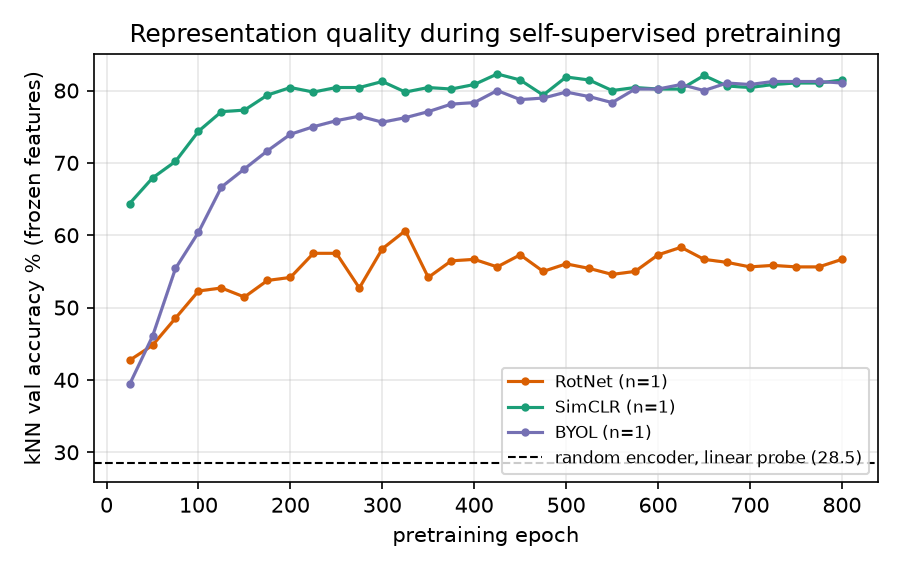
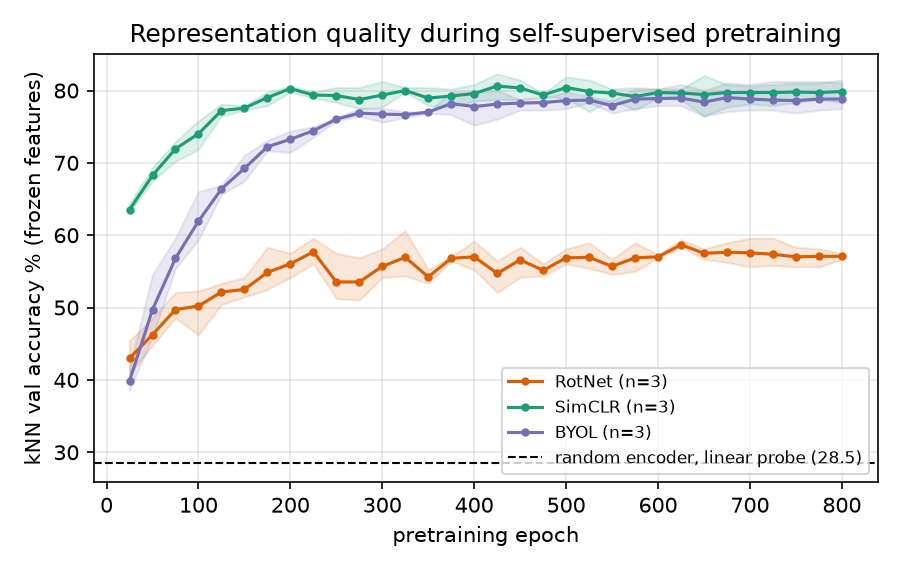
Results: 3-seed required table (baselines, RotNet/SimCLR/BYOL probe + fine-tune, joint), figures

diff --git a/docs/results.md b/docs/results.md
@@ -8,17 +8,19 @@ Validation set: 480 images (30/class) held out of the 2,400 training images; one
 |---|---|---|---|---|---|---|---|---|---|---|---|---|---|---|---|---|---|---|
 | sup_baseline | 3 | 80.42 ± 0.91 | 79.8–81.5 | 98.4 / 78.7 | resnet18 | random | supervised | - | 120 | light | 160 | 100 | 0.001 | 0 | 0.05 | - | 11.18 | 1.0 |
 | probe_random | 1 | 28.54 |  | 25.0 / 28.3 | resnet18 | random | supervised | y | 120 | light | 160 | 60 | 0.003 | 0 | 0 | - | 11.18 | 0.4 |
-| probe_byol | 1 | 84.17 |  | 89.9 / 82.9 | resnet18 | byol (ssl_byol) | supervised | y | 120 | light | 160 | 60 | 0.003 | 0 | 0 | - | 11.18 | 0.4 |
-| ft_byol | 1 | 85.21 |  | 99.7 / 84.4 | resnet18 | byol (ssl_byol) | supervised | - | 120 | light | 160 | 100 | 0.001 | 0 | 0.05 | - | 11.18 | 1.1 |
-| probe_simclr | 1 | 82.92 |  | 93.9 / 82.5 | resnet18 | simclr (ssl_simclr) | supervised | y | 120 | light | 160 | 60 | 0.003 | 0 | 0 | - | 11.18 | 0.4 |
-| ft_simclr | 1 | 85.83 |  | 99.8 / 84.4 | resnet18 | simclr (ssl_simclr) | supervised | - | 120 | light | 160 | 100 | 0.001 | 0 | 0.05 | - | 11.18 | 1.1 |
-| probe_rotnet | 1 | 69.17 |  | 74.4 / 67.9 | resnet18 | rotnet (ssl_rotnet) | supervised | y | 120 | light | 160 | 60 | 0.003 | 0 | 0 | - | 11.18 | 0.4 |
-| ft_rotnet | 1 | 85.62 |  | 99.6 / 83.1 | resnet18 | rotnet (ssl_rotnet) | supervised | - | 120 | light | 160 | 100 | 0.001 | 0 | 0.05 | - | 11.18 | 1.1 |
+| probe_byol | 3 | 83.19 ± 0.87 | 82.5–84.2 | 90.0 / 82.1 | resnet18 | byol (ssl_byol) | supervised | y | 120 | light | 160 | 60 | 0.003 | 0 | 0 | - | 11.18 | 0.4 |
+| ft_byol | 3 | 84.79 ± 0.91 | 83.7–85.4 | 99.8 / 84.0 | resnet18 | byol (ssl_byol) | supervised | - | 120 | light | 160 | 100 | 0.001 | 0 | 0.05 | - | 11.18 | 1.1 |
+| probe_simclr | 3 | 82.29 ± 0.62 | 81.7–82.9 | 93.4 / 82.2 | resnet18 | simclr (ssl_simclr) | supervised | y | 120 | light | 160 | 60 | 0.003 | 0 | 0 | - | 11.18 | 0.4 |
+| ft_simclr | 3 | 85.97 ± 0.43 | 85.6–86.5 | 99.8 / 84.4 | resnet18 | simclr (ssl_simclr) | supervised | - | 120 | light | 160 | 100 | 0.001 | 0 | 0.05 | - | 11.18 | 1.1 |
+| probe_rotnet | 3 | 69.51 ± 0.32 | 69.2–69.8 | 73.8 / 68.0 | resnet18 | rotnet (ssl_rotnet) | supervised | y | 120 | light | 160 | 60 | 0.003 | 0 | 0 | - | 11.18 | 0.4 |
+| ft_rotnet | 3 | 84.86 ± 0.84 | 84.0–85.6 | 99.6 / 82.8 | resnet18 | rotnet (ssl_rotnet) | supervised | - | 120 | light | 160 | 100 | 0.001 | 0 | 0.05 | - | 11.18 | 1.1 |
+| sup_baseline_long | 3 | 81.18 ± 0.12 | 81.0–81.2 | 99.9 / 79.9 | resnet18 | random | supervised | - | 120 | light | 160 | 300 | 0.001 | 0 | 0.05 | - | 11.18 | 2.7 |
+| joint_byol | 3 | 83.13 ± 0.42 | 82.7–83.5 | 99.8 / 81.7 | resnet18 | random | joint (byol) | - | 120 | light | 160 | 300 | 0.001 | 0 | 0.05 | - | 11.18 | 10.2 |
 
 ## Self-supervised pretraining (weighted kNN, k=20, frozen features, train split -> val)
 
 | pretraining run | seeds | kNN val acc % at end (mean ± std) | best kNN % | objective | model | views | res | epochs | batch | lr | final loss | min/run |
 |---|---|---|---|---|---|---|---|---|---|---|---|---|
-| ssl_byol | 1 | 81.04 | 81.25 | byol | resnet18 | photoblur | 160 | 800 | 128 | 0.001 | 0.125 | 19.0 |
-| ssl_simclr | 1 | 81.46 | 82.29 | simclr | resnet18 | photoblur | 160 | 800 | 128 | 0.001 | 1.331 | 16.7 |
-| ssl_rotnet | 1 | 56.67 | 60.62 | rotnet | resnet18 | photoblur | 160 | 800 | 128 | 0.001 | 0.022 | 6.1 |
+| ssl_byol | 3 | 78.82 ± 1.94 | 80.00 ± 1.16 | byol | resnet18 | photoblur | 160 | 800 | 128 | 0.001 | 0.126 | 19.2 |
+| ssl_simclr | 3 | 79.86 ± 1.56 | 81.04 ± 1.25 | simclr | resnet18 | photoblur | 160 | 800 | 128 | 0.001 | 1.324 | 16.3 |
+| ssl_rotnet | 3 | 57.08 ± 0.42 | 59.93 ± 0.60 | rotnet | resnet18 | photoblur | 160 | 800 | 128 | 0.001 | 0.018 | 6.0 |
